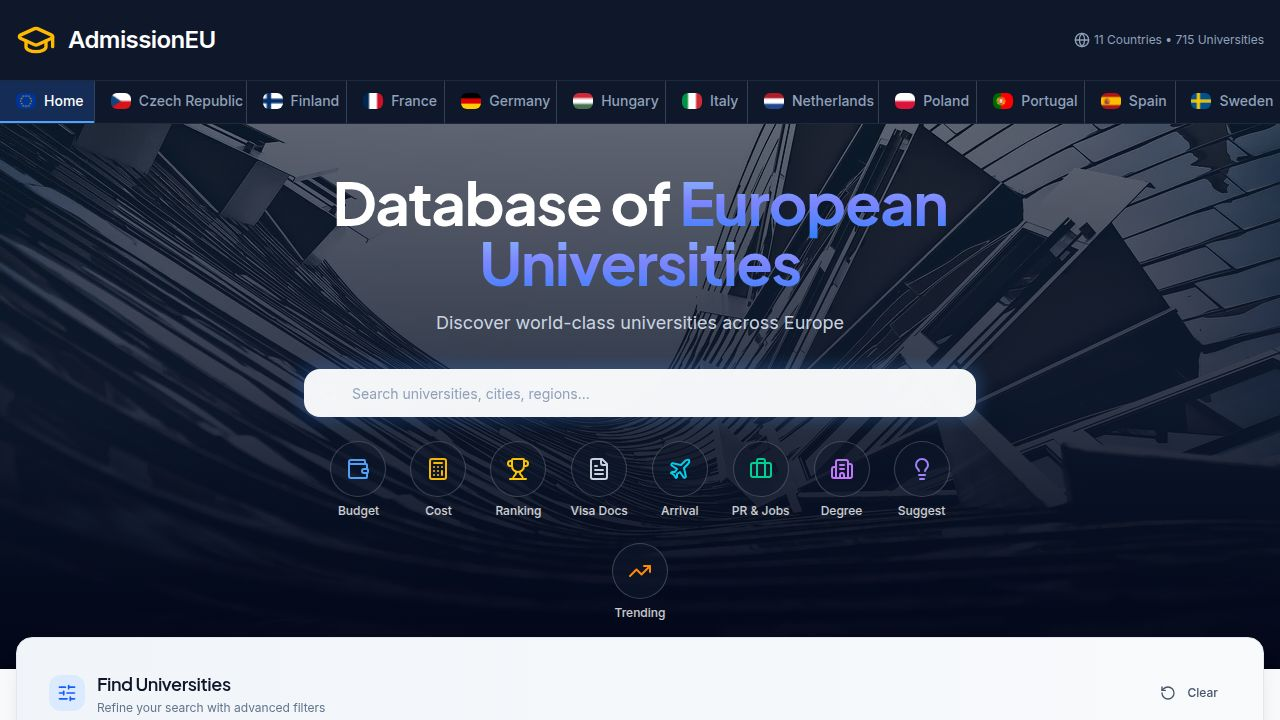
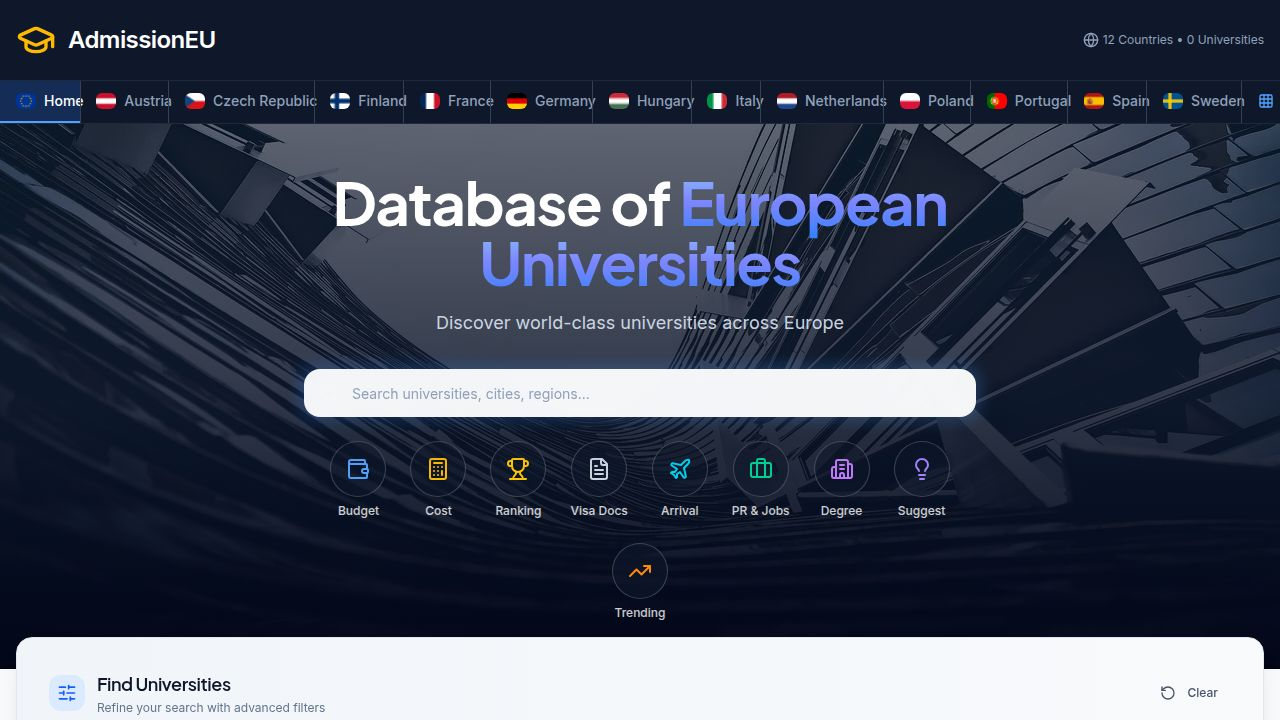
Add Sweden and Austria to the arrival guide for students
Adds Sweden and Austria to the `client/src/pages/arrival-guide.tsx` file, including details on SIM cards, banks, and essential tasks for international students.

Replit-Commit-Author: Agent
Replit-Commit-Session-Id: 1f81fc74-d928-40b8-b849-dec4d1b00912
Replit-Commit-Checkpoint-Type: full_checkpoint
Replit-Commit-Event-Id: 3b7c206f-1d97-443c-9031-c14fa78bf4ee
Replit-Commit-Screenshot-Url: https://storage.googleapis.com/screenshot-production-us-central1/ca9c957e-b649-4eb1-81fc-d7ef84337c8d/1f81fc74-d928-40b8-b849-dec4d1b00912/ZSoEcQY

Changed region(s): [[0.0625, 0.0917, 1.0, 0.1833], [0.8438, 0.0306, 0.9375, 0.0611]]

diff --git a/client/src/pages/arrival-guide.tsx b/client/src/pages/arrival-guide.tsx
@@ -288,6 +288,54 @@ const countryData: Record<string, {
       { task: 'BKK Pass', deadline: 'First week', description: 'Budapest transport pass. Students get 50% discount with valid ID.' },
     ],
   },
+  'Sweden': {
+    flag: '🇸🇪',
+    simCards: [
+      { name: 'Telia', price: '199-399 SEK/month', data: '20-100GB', network: 'Telia', highlight: true, notes: 'Best coverage nationwide' },
+      { name: 'Tele2', price: '149-349 SEK/month', data: '20-80GB', network: 'Tele2', highlight: true, notes: 'Good value, student offers' },
+      { name: 'Telenor', price: '149-299 SEK/month', data: '15-60GB', network: 'Telenor', notes: 'Third major carrier' },
+      { name: 'Hallon', price: '99-199 SEK/month', data: '10-40GB', network: 'Tre', notes: 'Budget MVNO option' },
+      { name: 'Comviq', price: '99-249 SEK/month', data: '10-50GB', network: 'Tele2', notes: 'Popular budget brand' },
+    ],
+    banks: [
+      { name: 'Revolut', type: 'Digital Bank', monthlyFee: '€0', highlight: true, pros: ['SEK account', 'Easy signup', 'No personnummer needed initially'], website: 'https://revolut.com' },
+      { name: 'N26', type: 'Digital Bank', monthlyFee: '€0', highlight: true, pros: ['Easy setup', 'Multi-currency', 'Good app'], website: 'https://n26.com' },
+      { name: 'Swedbank', type: 'Traditional', monthlyFee: '0 SEK (students)', pros: ['Largest Swedish bank', 'Student accounts free', 'Wide ATM network'] },
+      { name: 'SEB', type: 'Traditional', monthlyFee: '0 SEK (students)', pros: ['Major bank', 'Good student offers', 'English support'] },
+      { name: 'Handelsbanken', type: 'Traditional', monthlyFee: '0 SEK (students)', pros: ['Personal service', 'Local branches', 'Student packages'] },
+    ],
+    essentials: [
+      { task: 'Personnummer', deadline: 'Within 1 week (if staying 1+ year)', description: 'Swedish personal identity number. Apply at Skatteverket (Tax Agency).', documents: ['Passport', 'Residence permit', 'Proof of enrollment', 'Proof of address'] },
+      { task: 'Residence Permit', deadline: 'Before arrival (non-EU)', description: 'Apply at Migrationsverket. Need proof of funds (SEK 10,314/month).', documents: ['Passport', 'University acceptance', 'Financial proof', 'Health insurance'] },
+      { task: 'Address Registration', deadline: 'Within 1 week', description: 'Register at Skatteverket with your Swedish address.' },
+      { task: 'Student Union', deadline: 'At enrollment', description: 'Join your student union (kår) for discounts and student life.' },
+      { task: 'SL/Västtrafik Card', deadline: 'First week', description: 'Regional transport card. Student discounts available with valid ID.' },
+    ],
+  },
+  'Austria': {
+    flag: '🇦🇹',
+    simCards: [
+      { name: 'A1', price: '€15-30/month', data: '20-80GB', network: 'A1', highlight: true, notes: 'Best coverage, student tariffs' },
+      { name: 'Magenta', price: '€15-25/month', data: '20-60GB', network: 'Magenta', highlight: true, notes: 'Good urban coverage' },
+      { name: 'Drei (3)', price: '€12-25/month', data: '20-100GB', network: 'Drei', notes: 'Best data deals' },
+      { name: 'HoT', price: '€8-15/month', data: '10-30GB', network: 'Magenta', notes: 'Budget MVNO from Hofer' },
+      { name: 'Spusu', price: '€5-15/month', data: '10-50GB', network: 'Drei', notes: 'Very affordable, flexible plans' },
+    ],
+    banks: [
+      { name: 'N26', type: 'Digital Bank', monthlyFee: '€0', highlight: true, pros: ['German bank, works in Austria', 'Easy signup', 'IBAN instantly'], website: 'https://n26.com' },
+      { name: 'Revolut', type: 'Digital Bank', monthlyFee: '€0', highlight: true, pros: ['Multi-currency', 'Easy setup', 'Great app'], website: 'https://revolut.com' },
+      { name: 'Erste Bank', type: 'Traditional', monthlyFee: '€0 (students)', pros: ['George app is excellent', 'Student accounts free', 'Wide network'] },
+      { name: 'Bank Austria', type: 'Traditional', monthlyFee: '€0 (students)', pros: ['Part of UniCredit', 'Student packages', 'English support'] },
+      { name: 'Raiffeisen', type: 'Traditional', monthlyFee: '€0 (students)', pros: ['Cooperative bank', 'Local branches', 'Good student offers'] },
+    ],
+    essentials: [
+      { task: 'Meldezettel', deadline: 'Within 3 days', description: 'Address registration at Meldeamt. Required for everything else.', documents: ['Passport', 'Rental contract (signed by landlord)'] },
+      { task: 'Residence Permit', deadline: 'Non-EU: before visa expires', description: 'Apply at MA 35 (Vienna) or Bezirkshauptmannschaft. Need €1,030/month proof.', documents: ['Passport', 'Photos', 'Meldezettel', 'University acceptance', 'Health insurance', 'Financial proof'] },
+      { task: 'ÖGK Health Insurance', deadline: 'At enrollment', description: 'Austrian health insurance for students ~€63/month. Or use e-card if working.', documents: ['Meldezettel', 'Enrollment confirmation'] },
+      { task: 'Student ID', deadline: 'At university', description: 'Get your Studierendenausweis for discounts and library access.' },
+      { task: 'Wiener Linien/ÖBB', deadline: 'First week', description: 'Vienna transport or ÖBB Vorteilscard for train discounts. Semester ticket available.' },
+    ],
+  },
 };
 
 export default function ArrivalGuide() {
